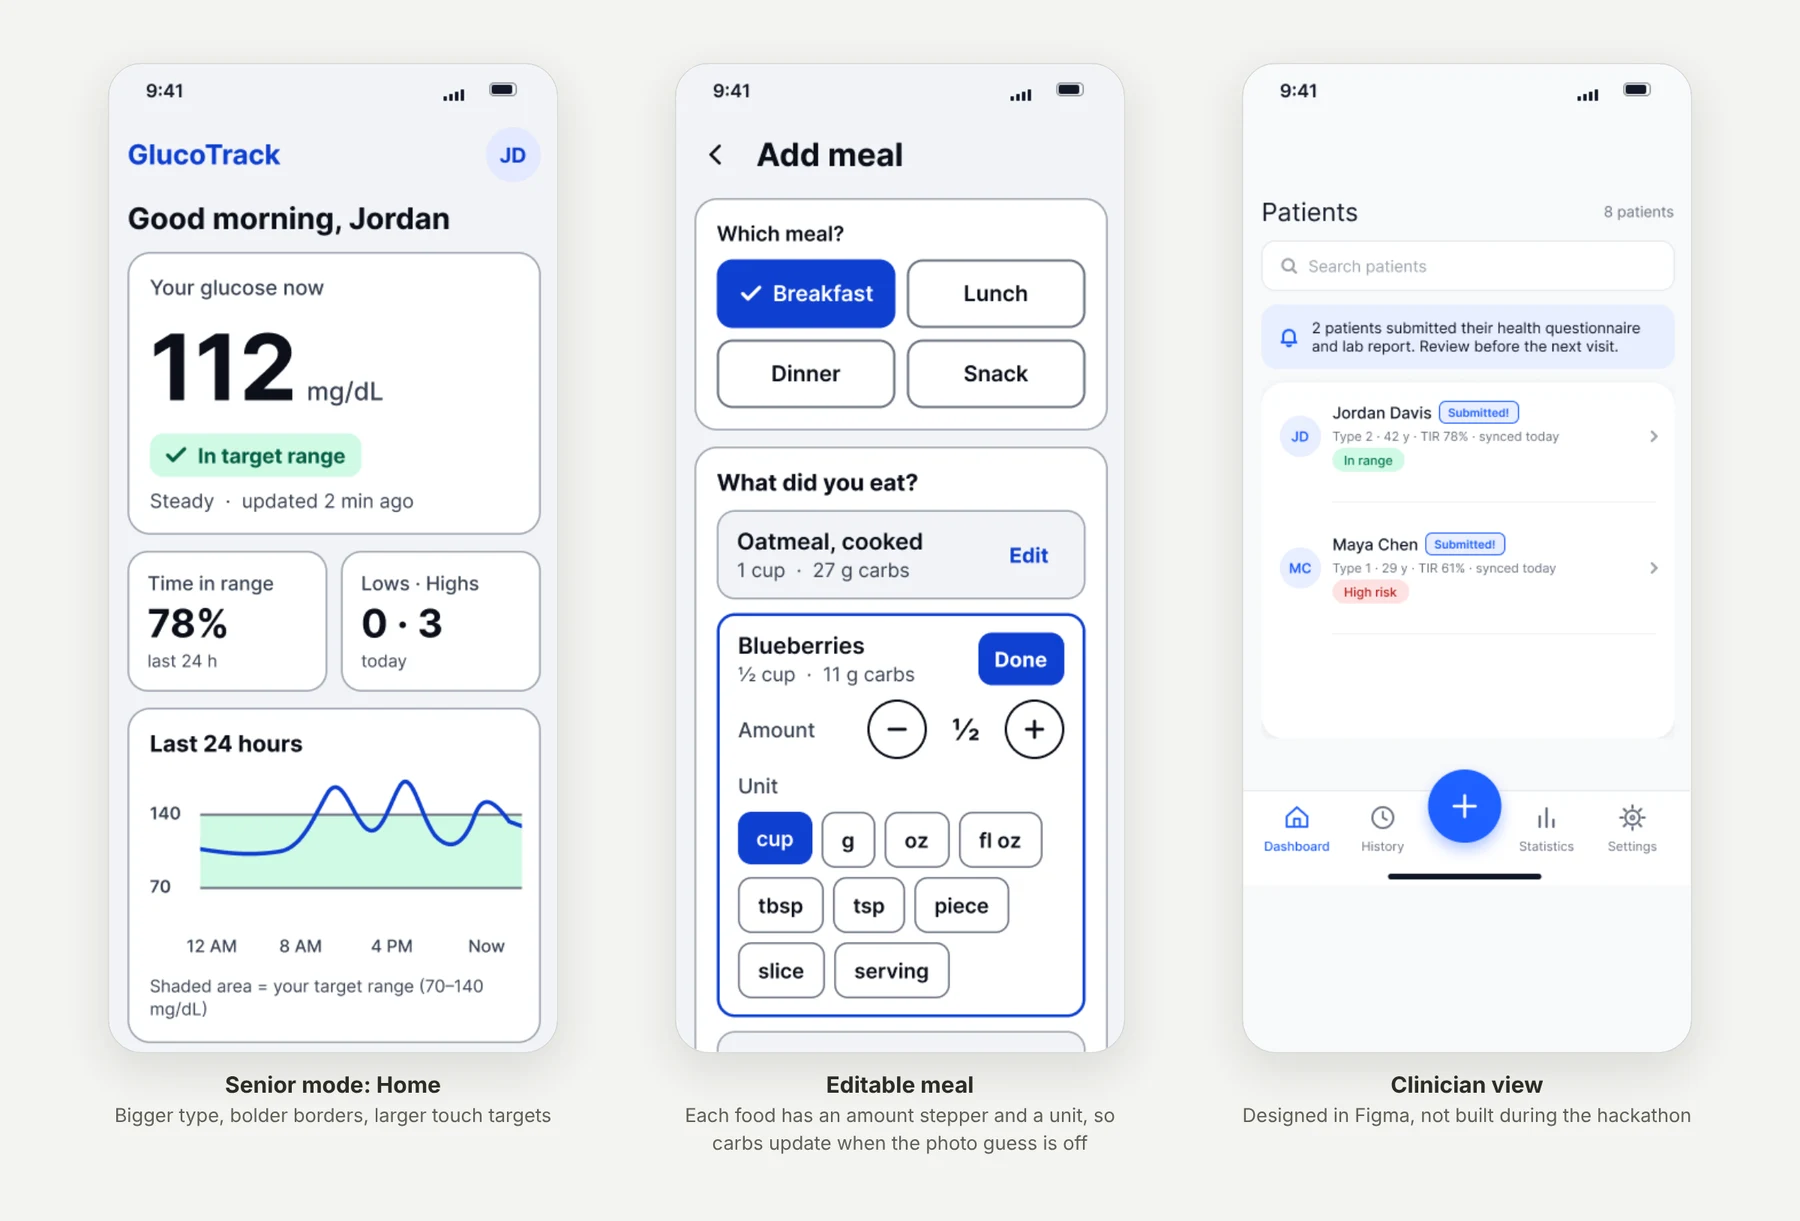
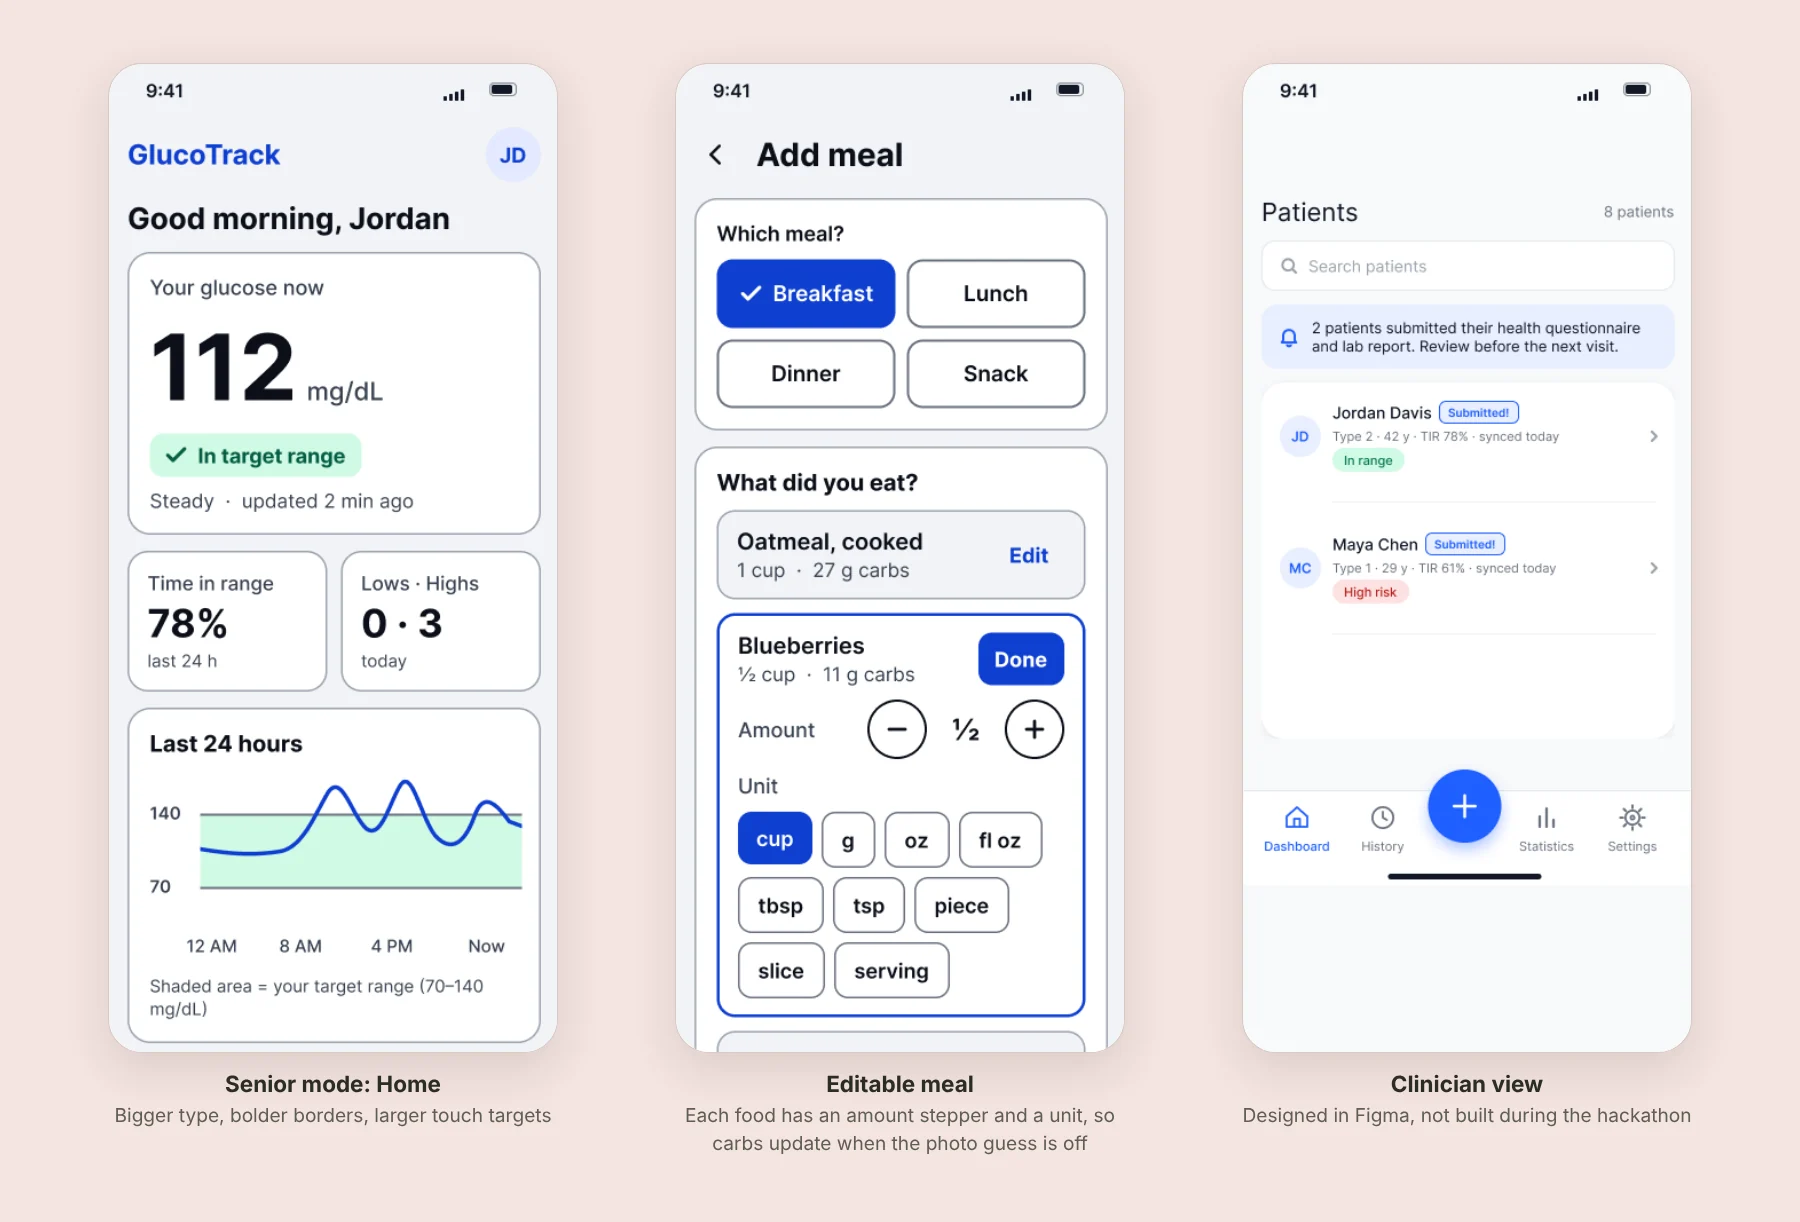
Nutrix screens figure: soft pink background (local)

diff --git a/css/styles.css b/css/styles.css
@@ -956,3 +956,7 @@ a.zoom { display: block; cursor: zoom-in; }
 /* cream backing: multiply tints the neutral #F3F4F1 / #F5F5F5 figure backgrounds to a warm paper tone */
 .stage-media a.zoom { background: #FDFBF4; }
 .stage-media img { outline: 1px solid color-mix(in srgb, var(--ink) 7%, transparent); outline-offset: -1px; }
+
+/* The three app screens have their own soft pink background, so no warm-tint blend */
+.stage-media a.zoom:has(img[src*="nutrix-screens"]) { background: none; }
+.stage-media img[src*="nutrix-screens"] { mix-blend-mode: normal; }
